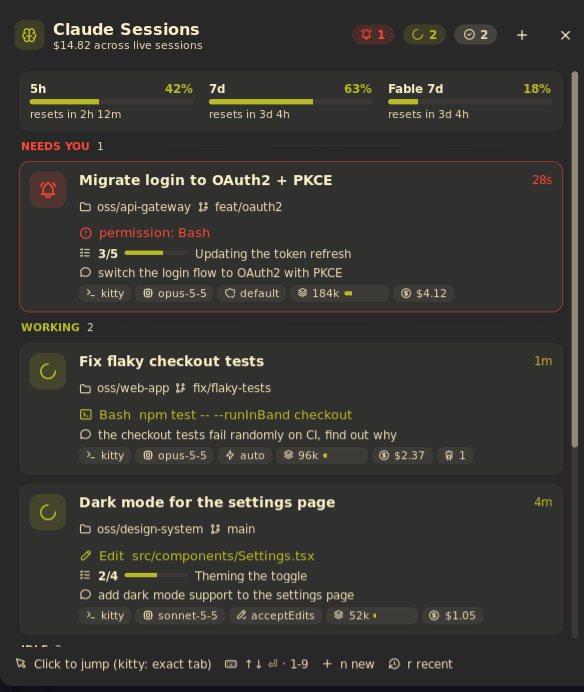
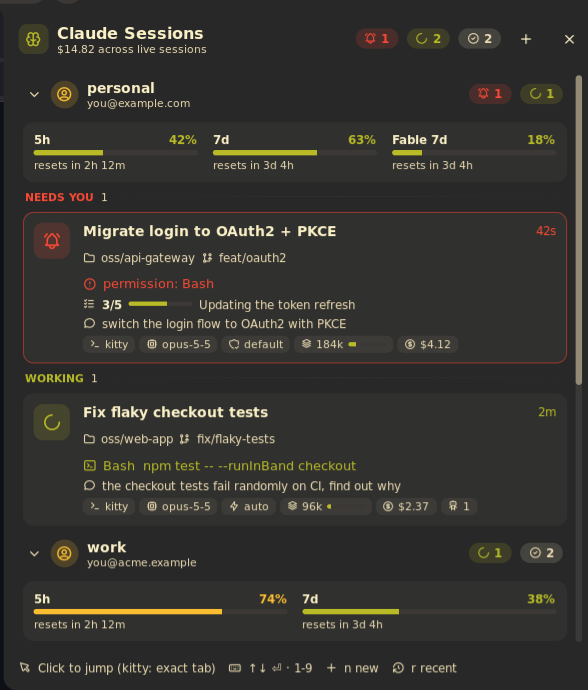
claude-sessions: tag accounts on the bar, refresh screenshots
With several accounts, each group on the bar widget now starts with the
account's name so its sessions and limits can be told apart. Screenshot,
bar image and thumbnail are regenerated from demo data showing two
accounts and ring gauges.

diff --git a/claude-sessions/README.md b/claude-sessions/README.md
@@ -68,9 +68,9 @@ It shows one dot per session, sorted by status:
 | Accent color | Working |
 | Grey | Idle |
 
-After the dots it shows your plan usage, by default the 5-hour window (for example `5h ▬▬▭ 45%`), colored by how
-close it is to the limit; pick which windows with **Bar limits**, and a linear bar or a ring with
-**Bar limits style**. Hover it for a summary of every session and your
+After the dots it shows your plan usage, colored by how close it is to the limit. By default that's the 5-hour window
+(for example `5h ▬▬▭ 45%`). Choose which windows with **Bar limits**, and a linear bar or a ring (as in the image above)
+with **Bar limits style**. Hover it for a summary of every session and your
 plan limits. Click it to open the panel. Prefer numbers? Set
 **Bar style** to *Counts*.
 
@@ -131,7 +131,8 @@ With more than one account:
 
 - **Panel.** Each account gets its own section with its name, email, session counts and plan limits. Click an
   account's header to fold it.
-- **Bar widget.** The dots are grouped by account, with a thin divider between groups.
+- **Bar widget.** Each account gets its own group, starting with a name tag (`personal`, `work`) followed by that
+  account's dots and plan limits.
 - **Tooltip and notifications.** Session titles are prefixed with the account name.
 - **Recent sessions.** Each card is tagged with its account and resumes under it.
 - **New sessions.** The **+** picker lets you choose which account to start the session in.
